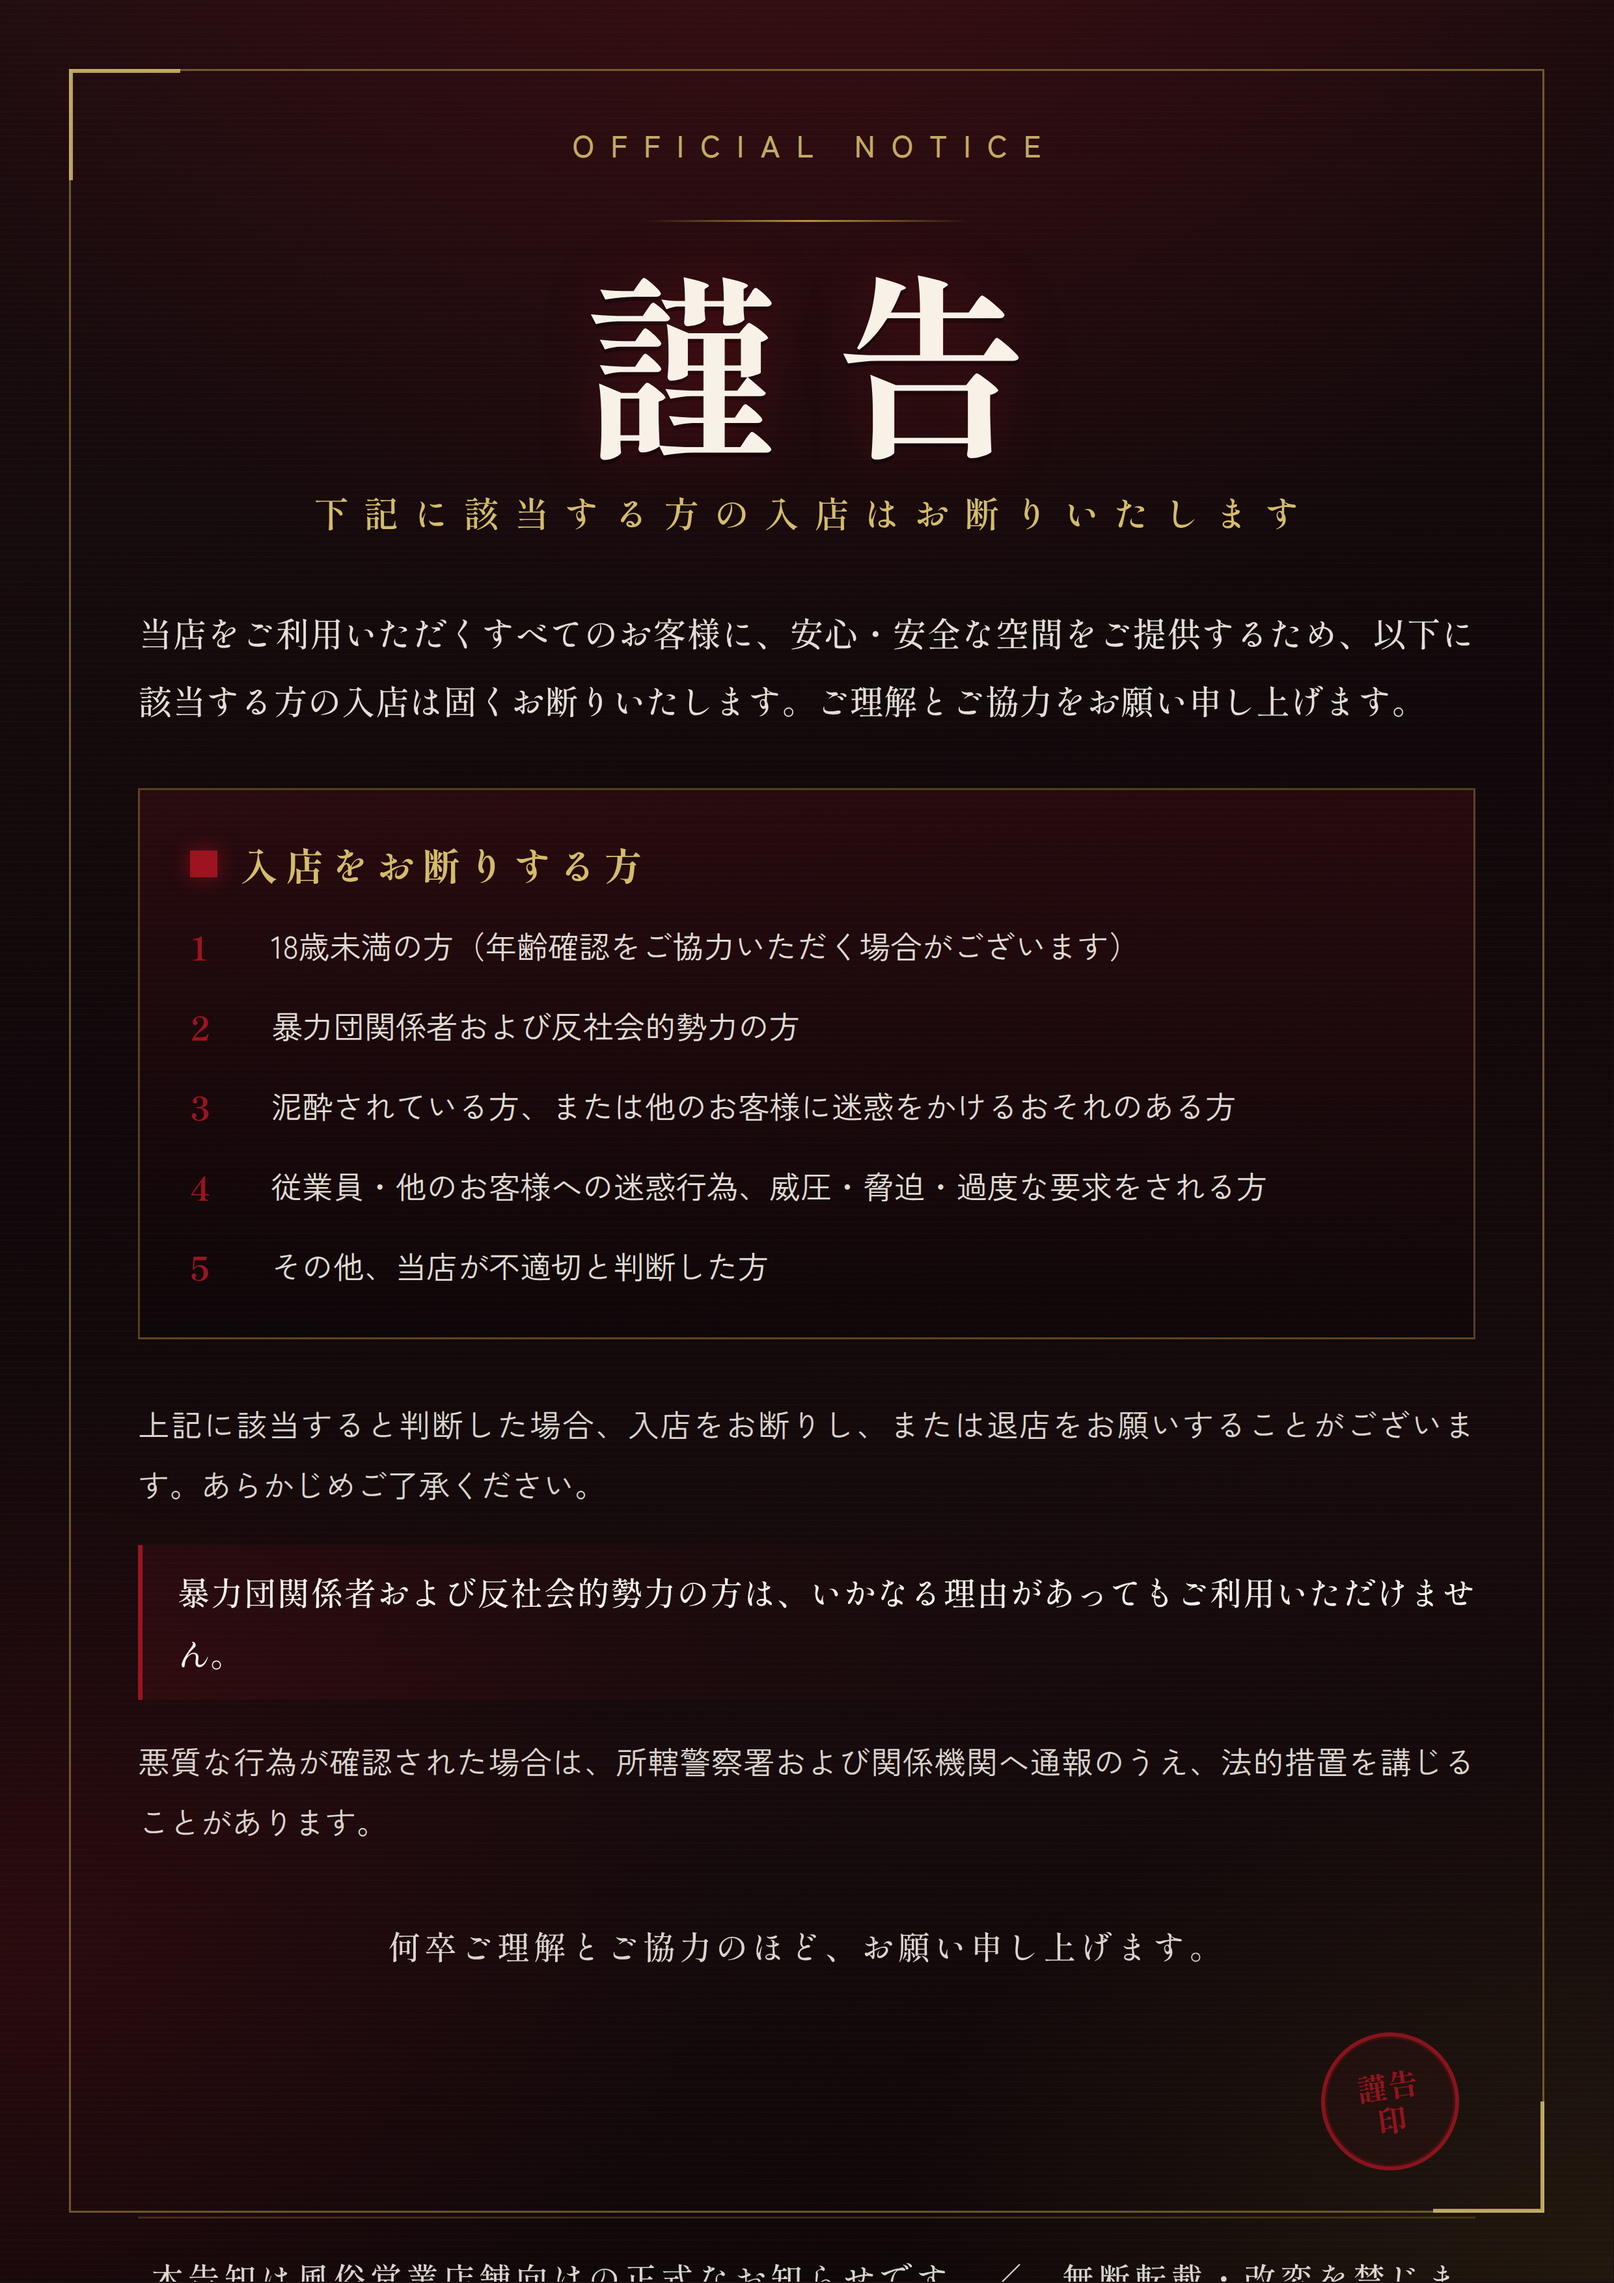
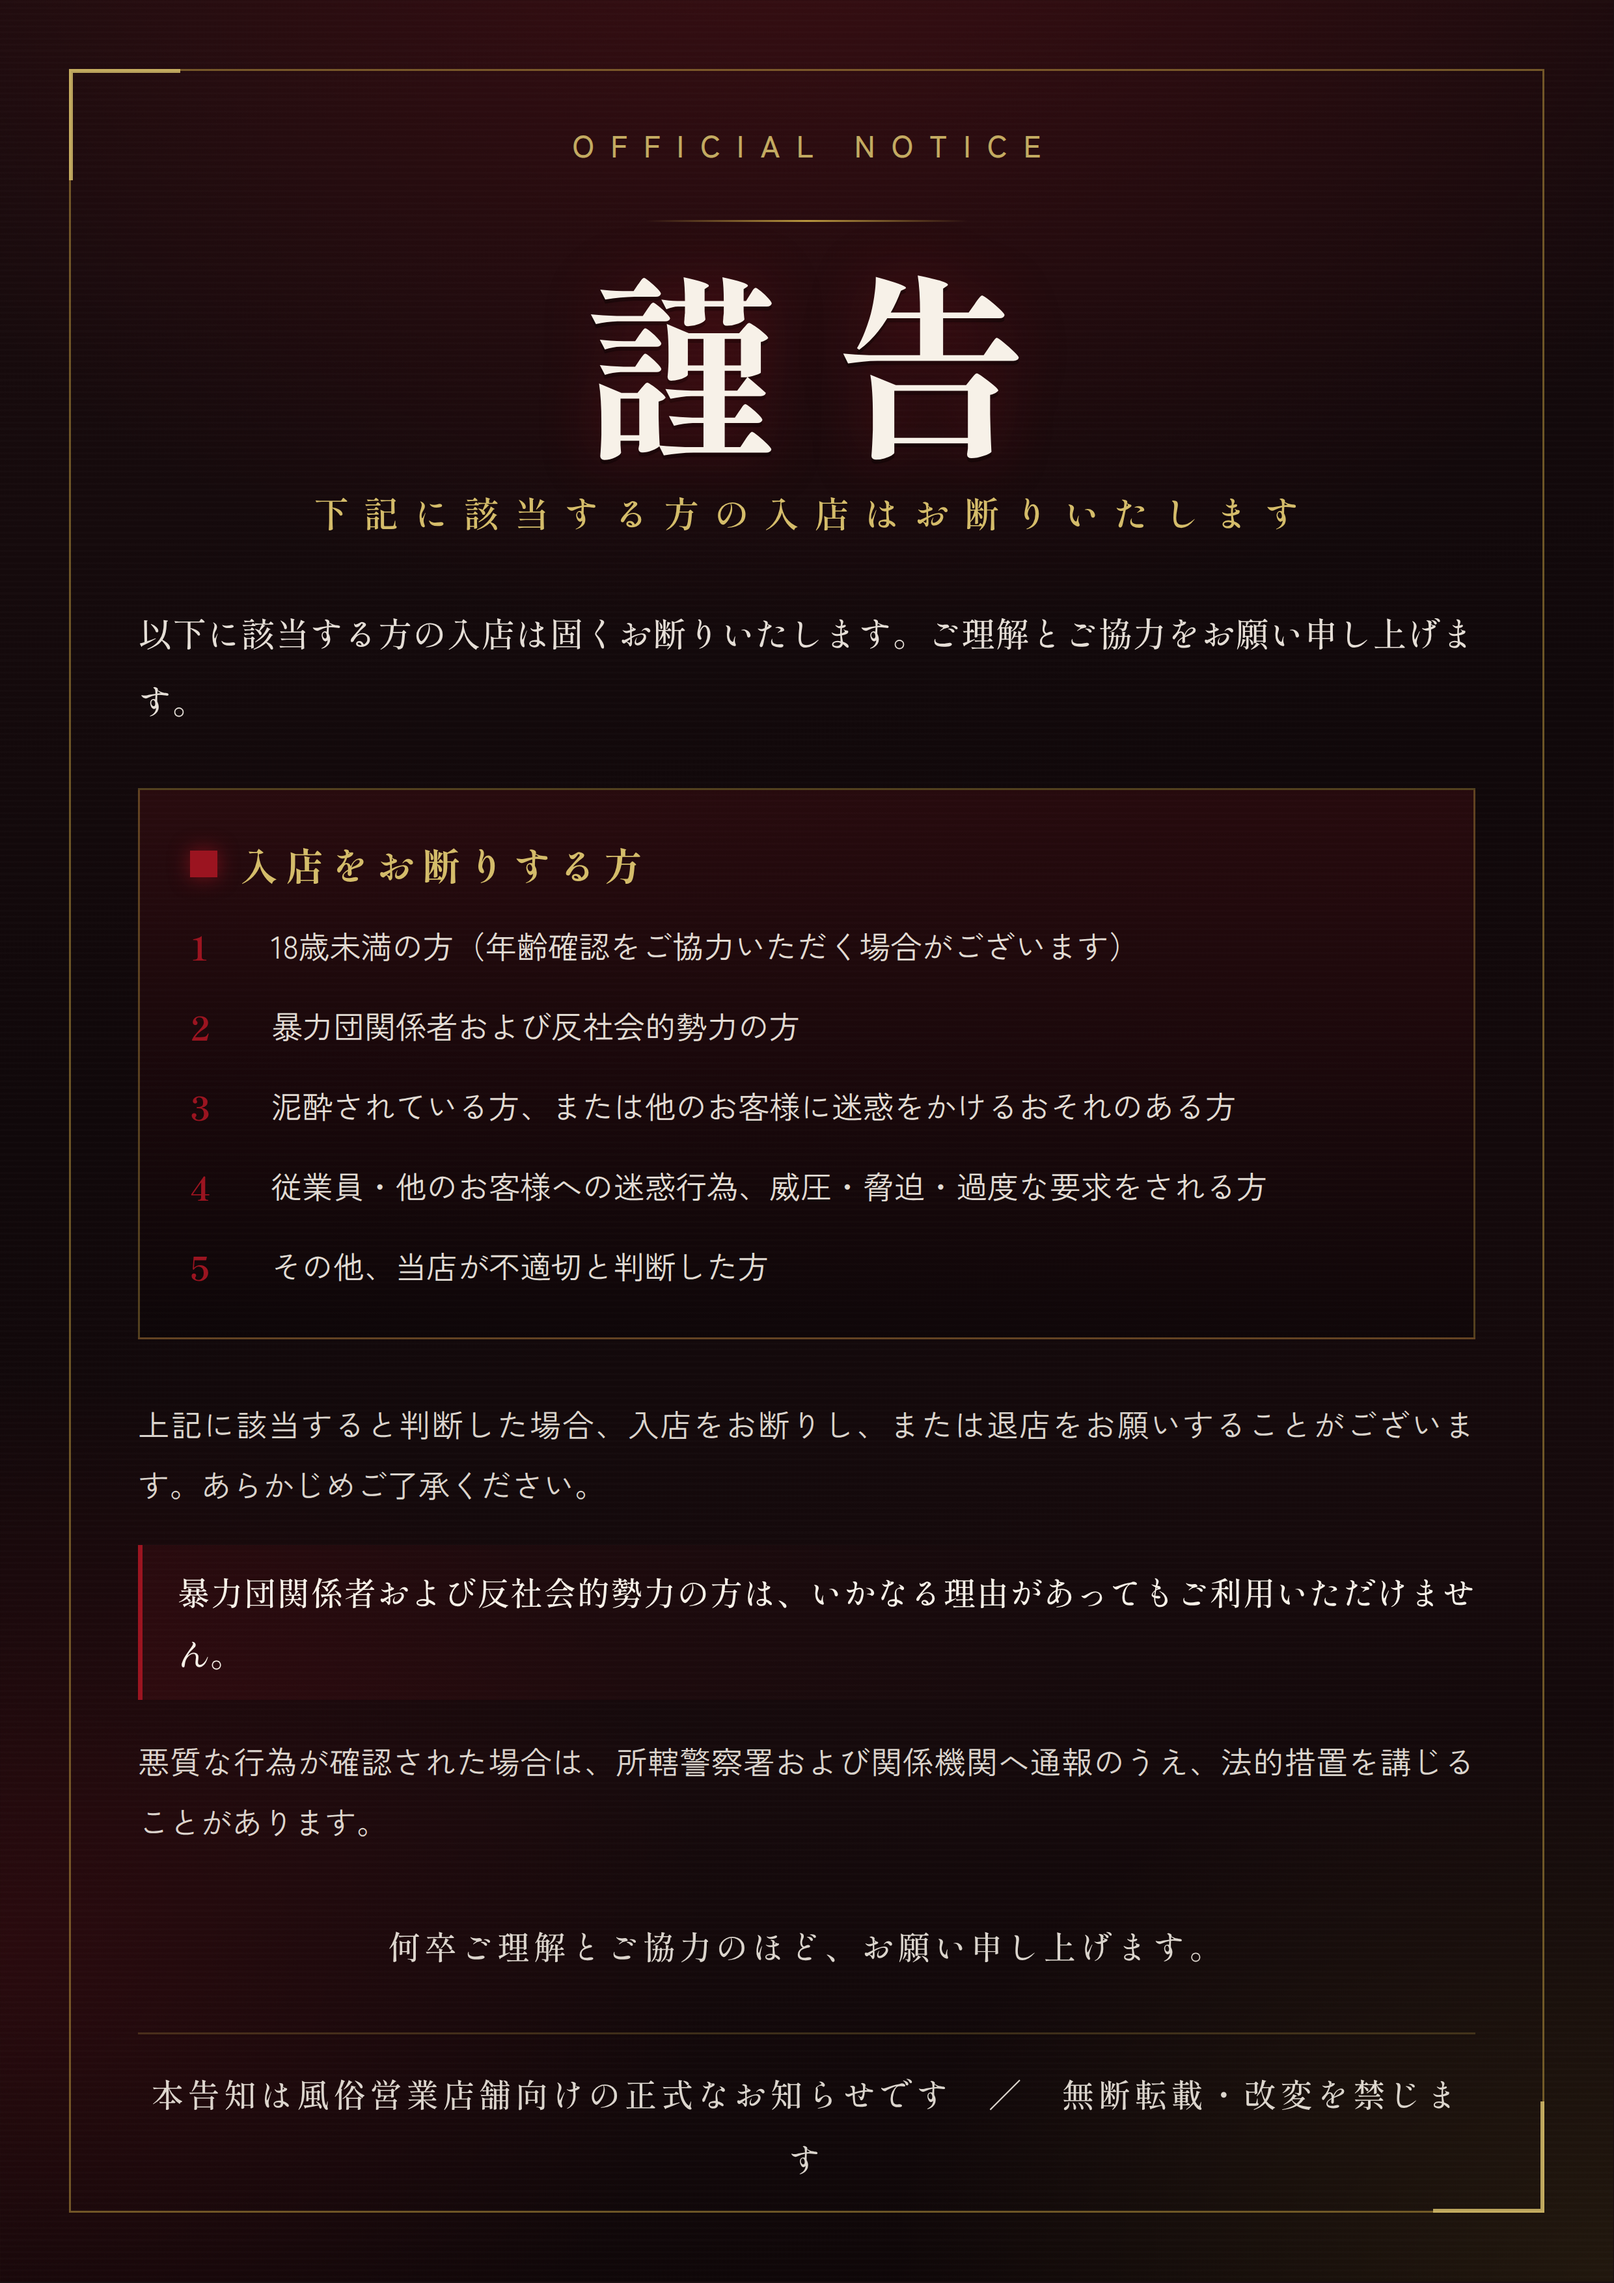
Remove seal and shorten lead copy
Drop 謹告印 and the lead text through the safety-space phrase.

diff --git a/flyer/kinkoku/index.html b/flyer/kinkoku/index.html
@@ -328,7 +328,7 @@
       </header>
 
       <p class="lead">
-        当店をご利用いただくすべてのお客様に、安心・安全な空間をご提供するため、以下に該当する方の入店は固くお断りいたします。ご理解とご協力をお願い申し上げます。
+        以下に該当する方の入店は固くお断りいたします。ご理解とご協力をお願い申し上げます。
       </p>
 
       <section class="box" aria-label="入店お断り事項">
@@ -356,9 +356,6 @@
 
       <footer class="closing">
         <p>何卒ご理解とご協力のほど、お願い申し上げます。</p>
-        <div class="seal-row" aria-hidden="true">
-          <div class="seal">謹告<br />印</div>
-        </div>
         <p class="footer-note">本告知は風俗営業店舗向けの正式なお知らせです　／　無断転載・改変を禁じます</p>
       </footer>
     </div>
